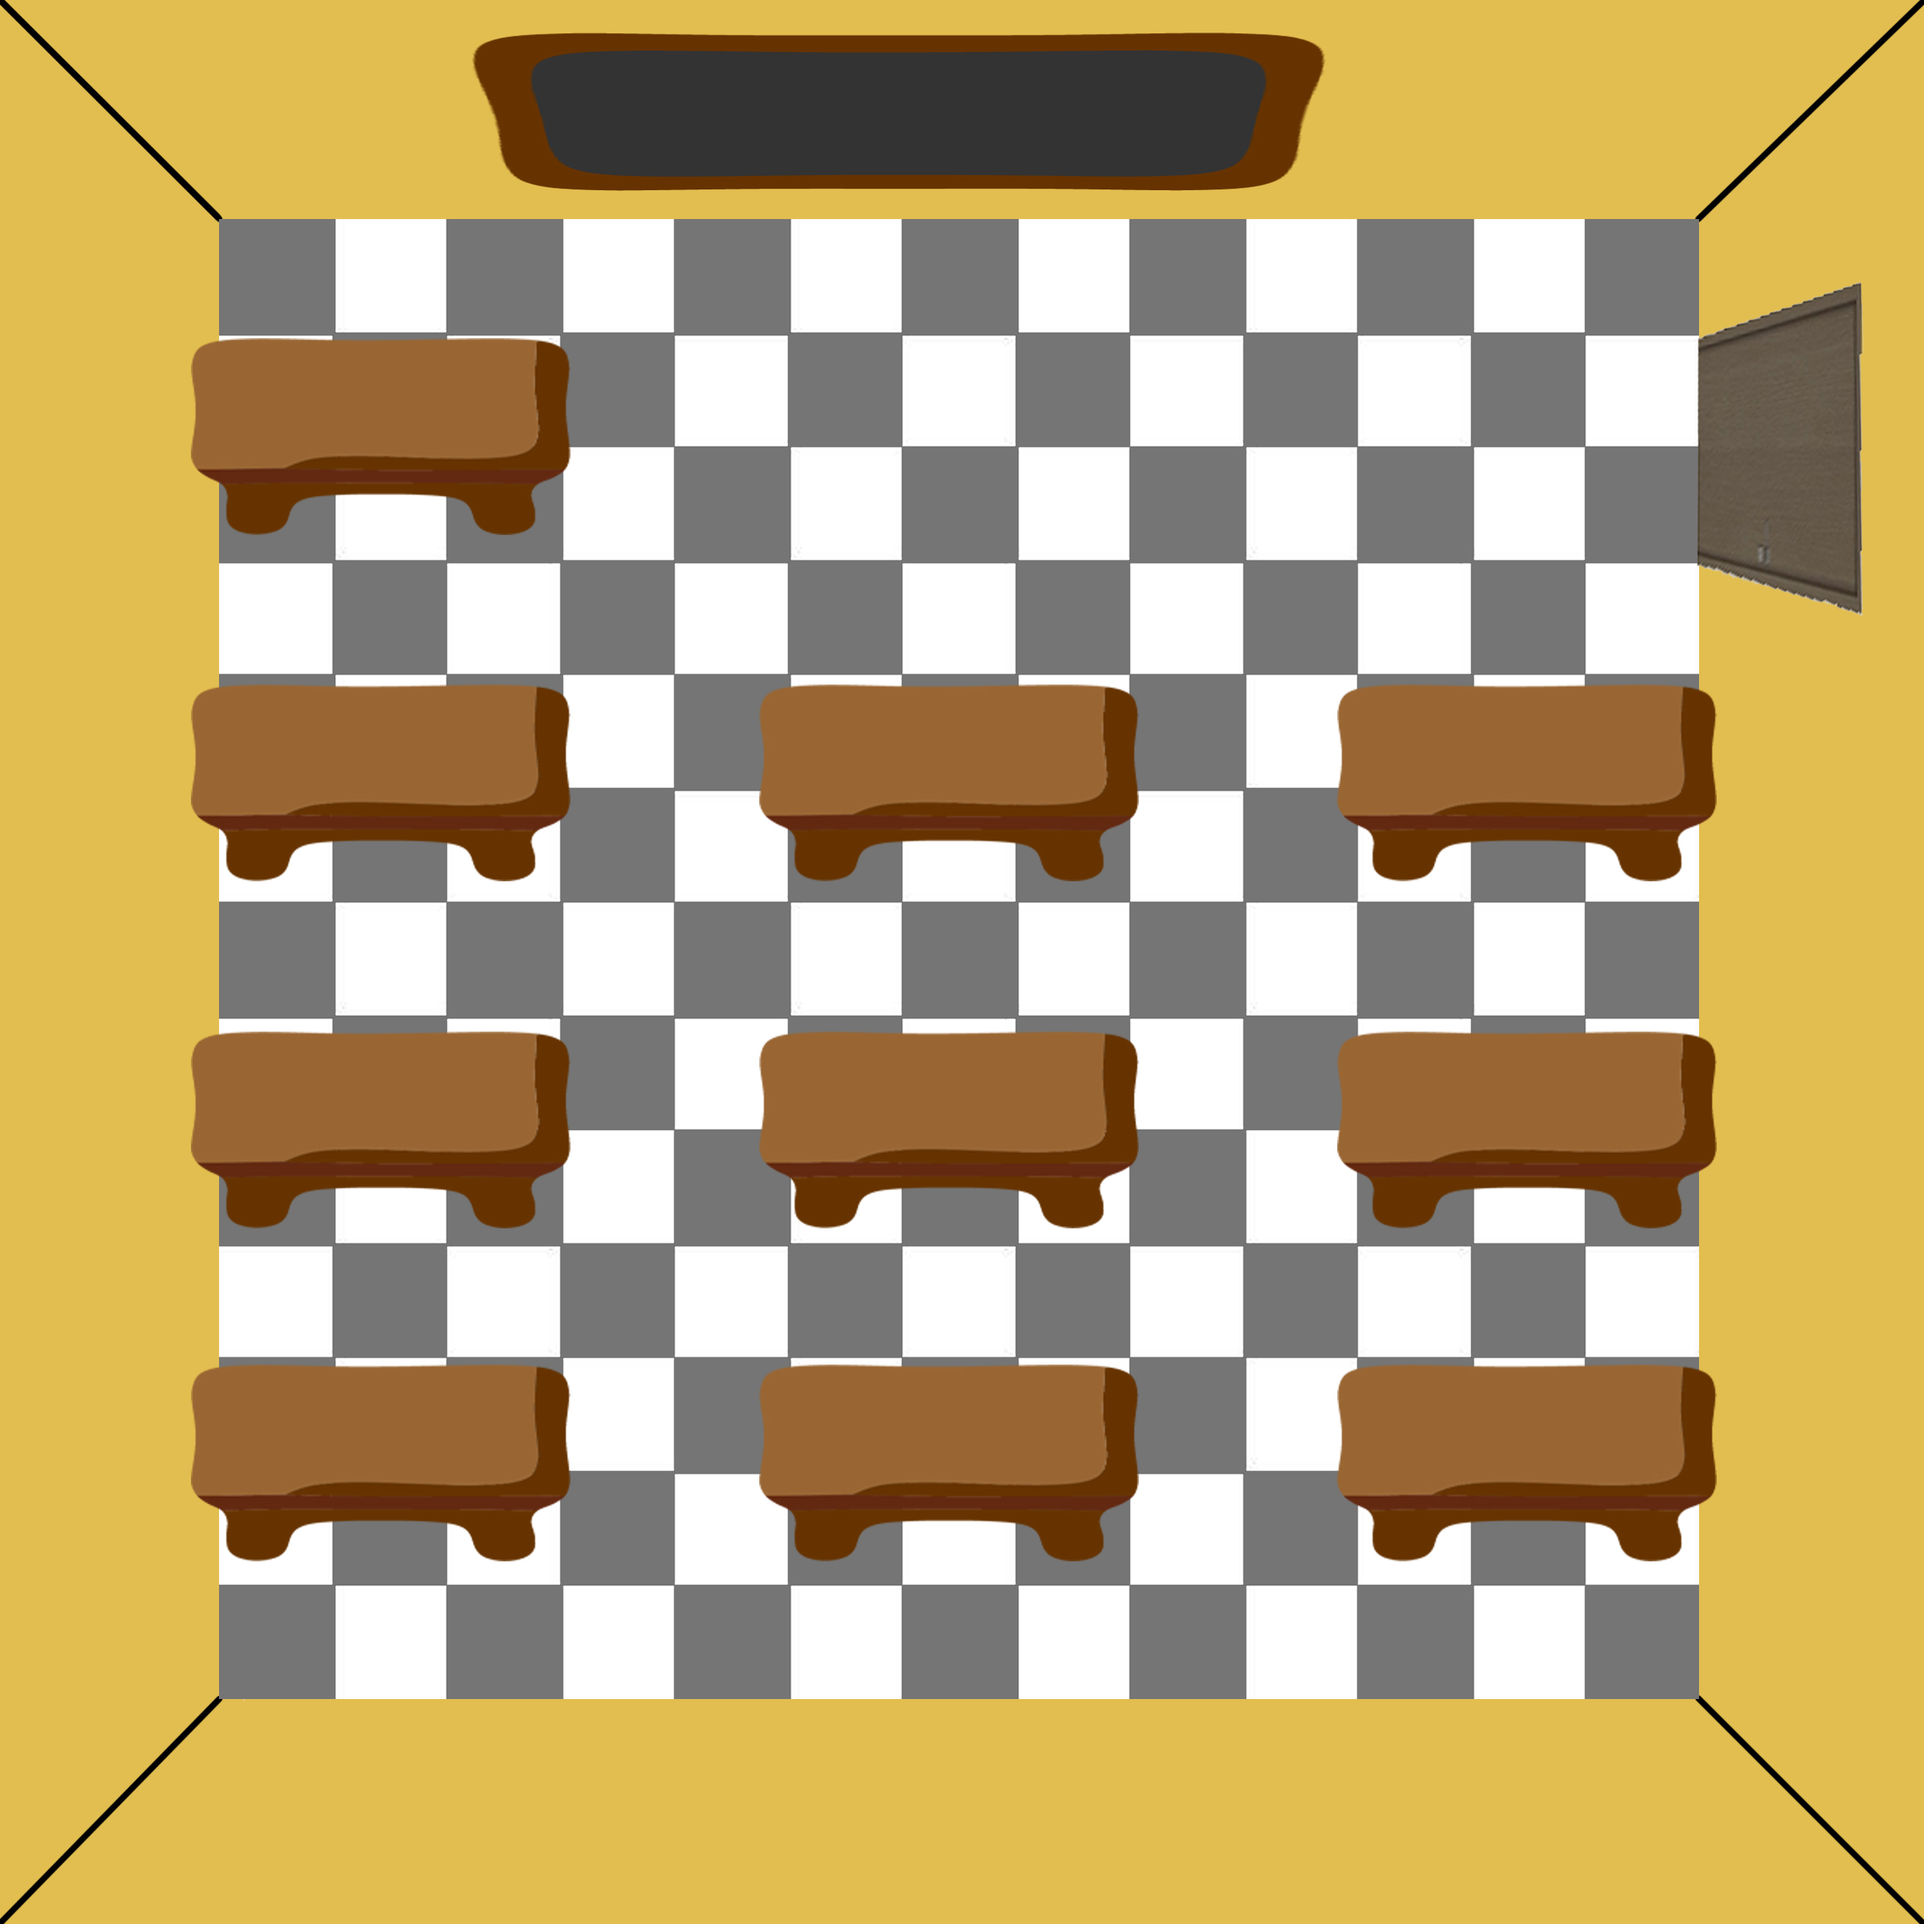
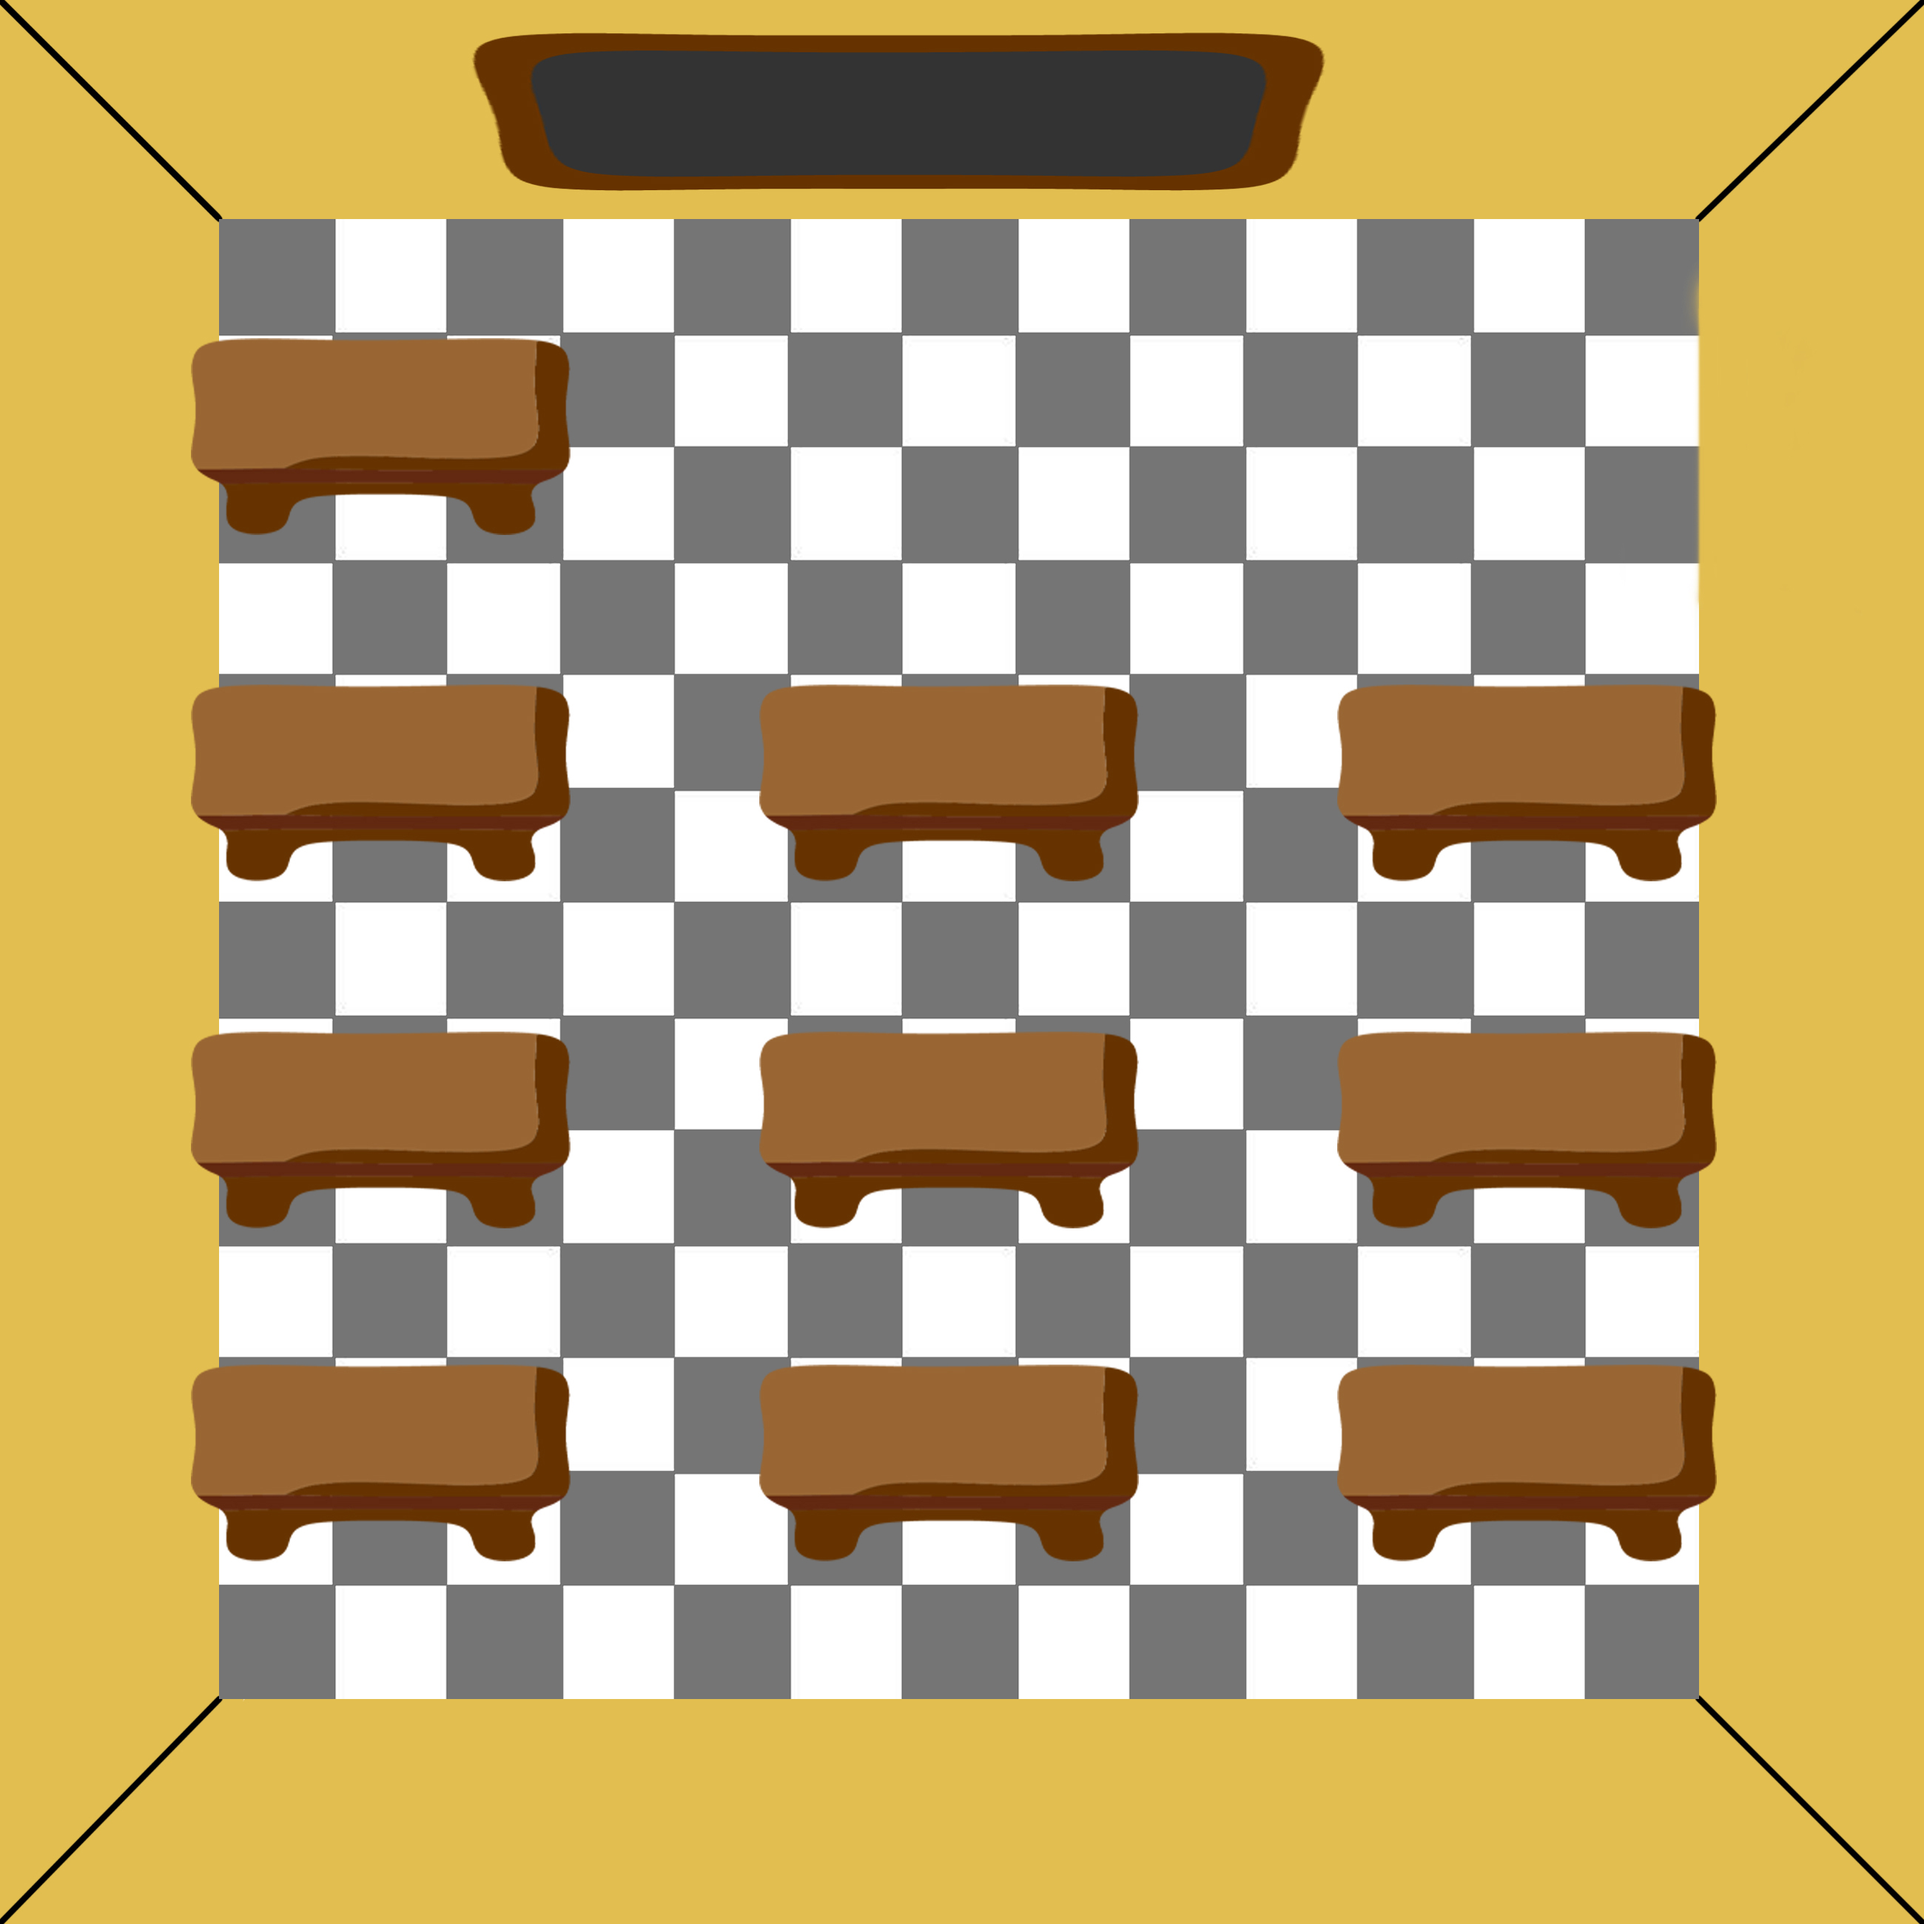
on voit la porte s'ouvrir WAHOU

Changed region(s): [[0.8723, 0.1246, 0.9658, 0.3115]]

diff --git a/public/js/google-blockly/blockly/html/engine/porte.js b/public/js/google-blockly/blockly/html/engine/porte.js
@@ -1,0 +1,57 @@
+class Porte {
+    constructor(jsonPorte) {
+        this.xTab = jsonPorte.xTab;
+        this.yTab = jsonPorte.yTab;
+        this.x = jsonPorte.x;
+        this.y = jsonPorte.y;
+        this.img = new Image();
+        this.img.src = '../js/google-blockly/blockly/html/resources/images/'+jsonPorte.imgFermee;
+        this.imgOuverte = '../js/google-blockly/blockly/html/resources/images/'+jsonPorte.imgOuverte;
+        this.affiche();
+    }
+
+    affiche() {
+        var sup = this;
+        this.img.onload = function () {
+            scene.context.drawImage(this, sup.x, sup.y, 150, 150);
+        }
+    }
+
+    repaint() {
+        scene.context.drawImage(this.img, this.x, this.y, 150, 150);
+    }
+
+    ouvre() {
+        tabNiveau.tab[this.xTab][this.yTab] = -1;
+        this.img.src = this.imgOuverte;
+    }
+}
+
+function setupPorte(jsonData, dessins) {
+    if (jsonData.porte) {
+        var tepor = new Porte(jsonData.porte);
+        dessins.push(tepor);
+            /*tabLeviers[i] = new Levier(jsonData.porte[i]);
+            dessins.push(tabLeviers[i]);*/
+    }
+    //return tabLeviers;
+    return tepor;
+}
+/*
+function actionLevier() {
+    if (!perdu) {
+        var trouve = false;
+        for (var i = 0; i < leviers.length; i++) {
+            var lev = leviers[i];
+            if (lev.xTab == heros.tabX && lev.yTab == heros.tabY) {
+                trouve = true;
+                lev.img.src = lev.imgBas;
+                eval(lev.action);
+            }
+        }
+        if (!trouve) {
+            alert('Pas de levier ici');
+            perdu = true;
+        }
+    }
+}*/

diff --git a/public/js/google-blockly/blockly/html/engine/jeu.js b/public/js/google-blockly/blockly/html/engine/jeu.js
@@ -22,8 +22,37 @@ function startGame() {
     heros = new Heros();
     dessins.push(heros);
     leviers = setupLeviers(jsonData, dessins);
+    porte = setupPorte(jsonData, dessins);
+    //alert('u');
 
     setTimeout('updateGameArea()', timeout + 10);
     timeout = 0;
 }
+
+function testerGagne(heros) {
+    if (!perdu) {
+        if (tabNiveau.tab[heros.tabX][heros.tabY] == -1) {
+            gagne = true;
+            alert("Vous vous etes échappé !");
+            var div = document.getElementById("nextLvl");
+
+            while (div.firstChild) {
+                div.removeChild(div.firstChild);
+            }
+
+            var btn = document.createElement("input");
+            btn.setAttribute("name", "nextLvl");
+            btn.setAttribute("type", "button");
+            btn.setAttribute("value", "prochain niveau");
+            div.appendChild(btn);
+        } else if (tabNiveau.tab[heros.tabX][heros.tabY] == -2) {
+            alert("Porte fermée");
+            perdu = true
+        } else {
+            alert("Pas de porte ici");
+            perdu = true;
+        }
+    }
+}
+
 startGame();

diff --git a/public/js/google-blockly/blockly/html/engine/include.js b/public/js/google-blockly/blockly/html/engine/include.js
@@ -14,5 +14,6 @@ includeJs("fond.js");
 includeJs("dessins.js");
 includeJs("heros.js");
 includeJs("levier.js");
+includeJs("porte.js");
 setTimeout('includeJs("jeu.js")', 1000);//pour etre sur de ne pas créer d'erreurs par l'appel de fonctions pas encore incluses
 //includeJs("jeu.js");

diff --git a/public/js/google-blockly/blockly/html/engine/globalVars.js b/public/js/google-blockly/blockly/html/engine/globalVars.js
@@ -4,3 +4,4 @@ var heros;
 var gagne = false;
 var perdu;
 var leviers;
+var porte;
